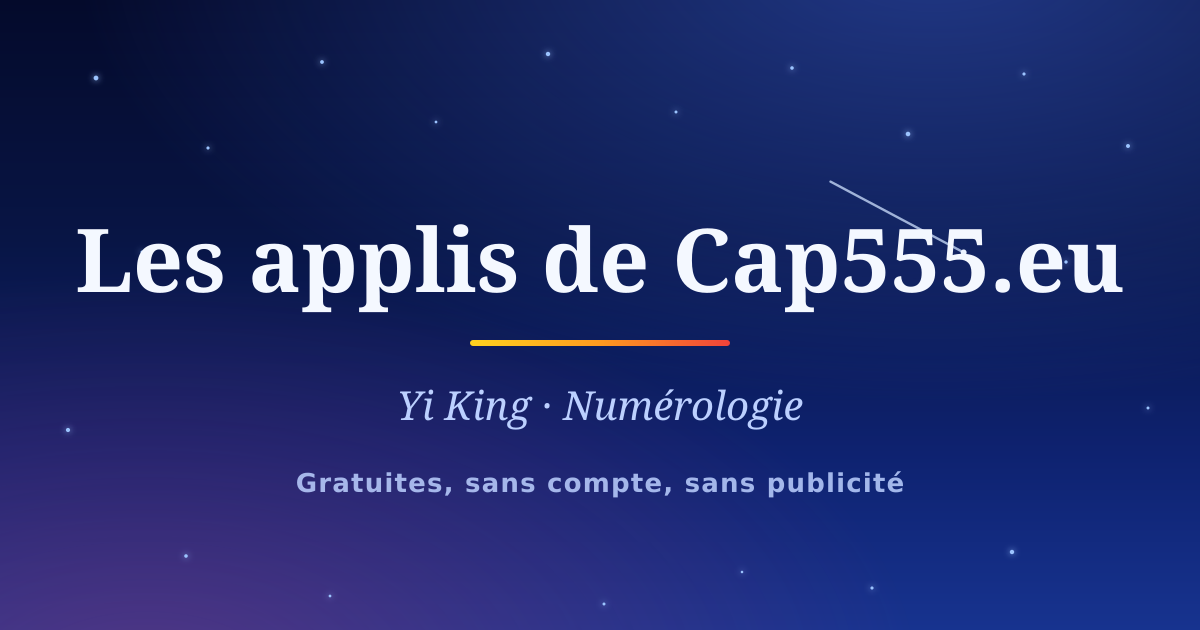
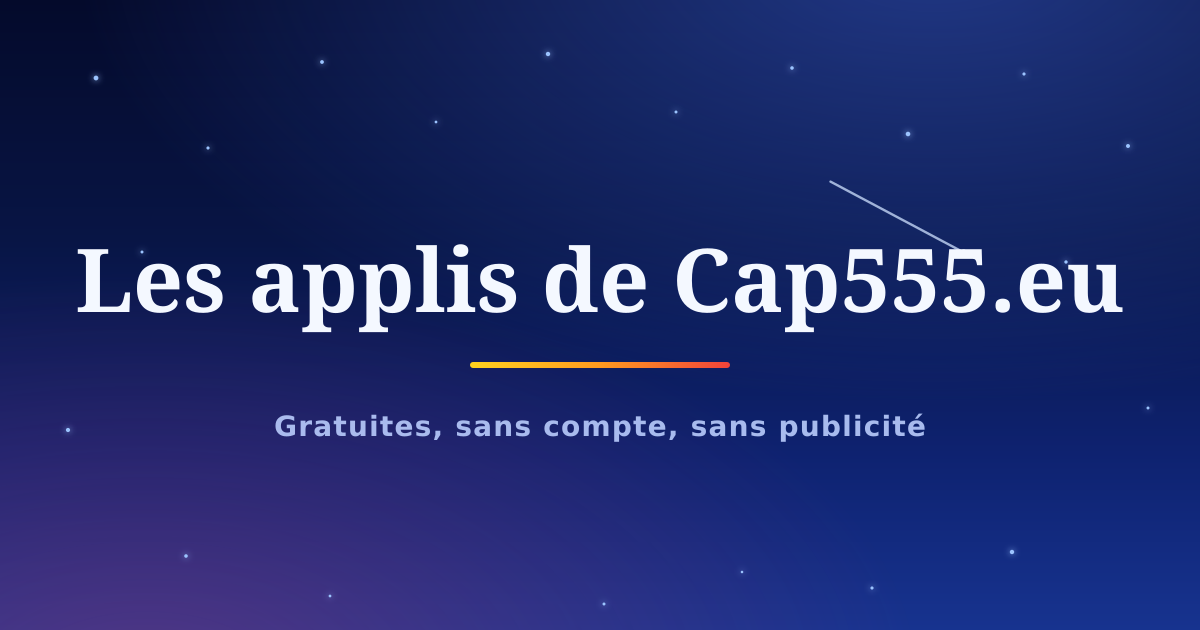
Enleve l'enumeration des applis de la vignette et des descriptions
Christine va ajouter d'autres applis : la vignette et les deux
descriptions ne doivent plus citer nommement Yi King et Numerologie,
sinon il faudrait les reprendre a chaque ajout. Seule la grille de
la page liste encore les applis, et elle, c'est son role.

Changed region(s): [[0.0617, 0.3619, 0.9558, 0.6937], [0.2467, 0.754, 0.7708, 0.7841]]

diff --git a/index.html b/index.html
@@ -4,13 +4,13 @@
 <meta charset="utf-8">
 <meta name="viewport" content="width=device-width, initial-scale=1, viewport-fit=cover">
 <title>Les applis de Cap555.eu</title>
-<meta name="description" content="Les applis offertes par l'association Cap555 : Yi King et Numérologie.">
+<meta name="description" content="Les applis proposées gracieusement par l’association Cap555. Gratuites, sans compte, sans publicité.">
 
 <meta property="og:type" content="website">
 <meta property="og:site_name" content="Cap555">
 <meta property="og:locale" content="fr_FR">
 <meta property="og:title" content="Les applis de Cap555.eu">
-<meta property="og:description" content="Yi King et Numérologie. À utiliser en ligne, sur téléphone comme sur ordinateur.">
+<meta property="og:description" content="Gratuites, sans compte, sans publicité. À utiliser en ligne, sur téléphone comme sur ordinateur.">
 <meta property="og:url" content="https://cap555.eu/">
 <meta property="og:image" content="https://cap555.eu/partage.png">
 <meta property="og:image:width" content="1200">
